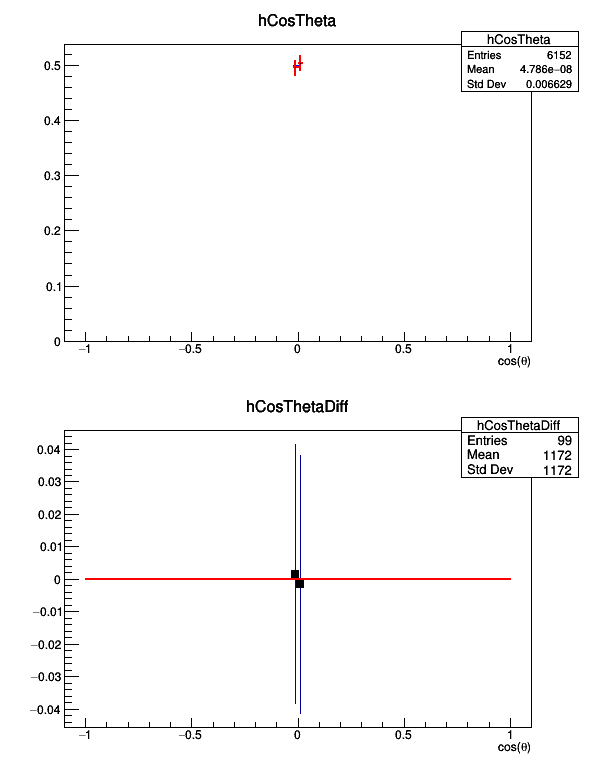
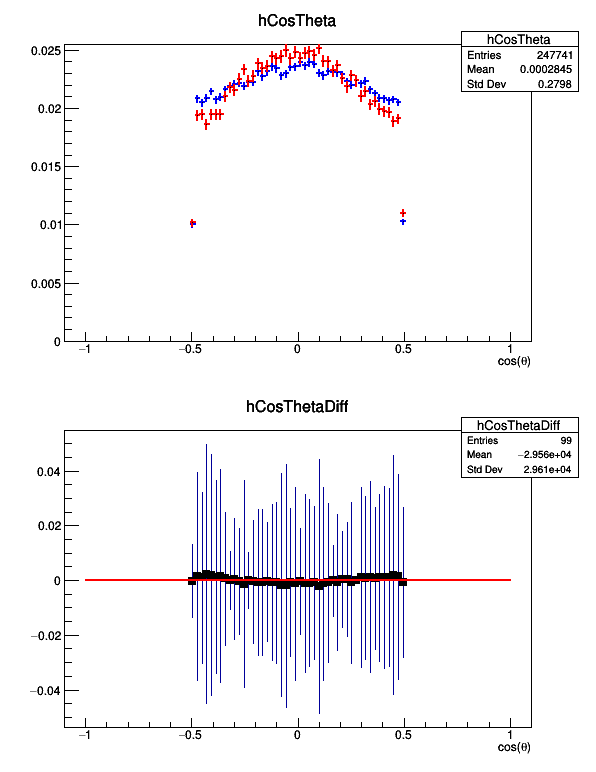
Position correction added. Theta slightly better, phi without changes.

diff --git a/MyHits.C b/MyHits.C
@@ -33,21 +33,33 @@ MyHits::~MyHits()
     delete hTheta;
 }
 
-void MyHits::CalculateNewHitPoints(TLorentzVector &h, const TLorentzVector &source)
+TLorentzVector MyHits::CalculateNewHitPoints(TLorentzVector h, const TLorentzVector source)
 {
-    TLorentzVector r = h-source;
-    double x = r.X();
-    double y = r.Y();
-    double z = r.Z();
-    double s = R/(r.X()*r.X()+r.Y()+r.Y());
-    h = r*s + source;
-    if(TMath::Abs(h.Z()) > L/2.0);
+    TLorentzVector r(h.X()-source.X(), h.Y()-source.Y(), h.Z()-source.Z(), 0.0);
+    double rx = r.X();
+    double ry = r.Y();
+    double rz = r.Z();
+    double xs = source.X();
+    double ys = source.Y();
+    double zs = source.Z();
+    double Rs2 = (xs*xs+ys*ys);
+    double delta = 4*((xs*rx+ys*ry)*(xs*rx+ys*ry) -  (rx*rx+ry*ry)*(Rs2-R*R));
+    double s = (-2*((xs*rx+ys*ry))+TMath::Sqrt(delta))/2.0/(rx*rx+ry*ry);
+//    cout<<"Rs="<<TMath::Sqrt(Rs2)<<" R="<<R<<" ";
+//    cout<<"delta="<<delta<<" s="<<s<<" ";
+    TLorentzVector hh = r*s + source;
+//    cout<<TMath::Abs(hh.Mag())<<" ";
+    if(TMath::Abs(hh.Z()) > L/2.0)
     {
-        h.SetX(0);
-        h.SetY(0);
-        h.SetZ(0);
-        h.SetT(0);
+//        cout<<"W IFIE! ";
+        hh.SetX(0);
+        hh.SetY(0);
+        hh.SetZ(0);
+        hh.SetT(0);
     }
+    else
+        ;//cout<<"Poza ifem ";
+    return hh;
 }
 
 void MyHits::Loop() {
@@ -203,7 +215,7 @@ void MyHits::Loop() {
 
       if (fabs(last_time-time)<TIME_WINDOW)
       {
-          if (hit_is_proper)
+          if (hit_is_proper)// and h.nCrystalCompton==1)
           {
              //wypelnianie tablicy hits kandydatami na koincydencje
               hits.push_back(h);
@@ -211,10 +223,10 @@ void MyHits::Loop() {
               TLorentzVector source(h.sourcePosX, h.sourcePosY, h.sourcePosZ, 0.0);
               TLorentzVector v1 = v10-source;
 
-//              CalculateNewHitPoints(v10, source);
+              v10 = CalculateNewHitPoints(v10, source);
               double cc = 0;
-              double dd = 5;
-              if((v10.Z()>-dd && v10.Z()<-cc) || (v10.Z()>cc && v10.Z()<dd))
+              double dd = 250;
+              if((v10.Z()>-dd && v10.Z()<-cc) || (v10.Z()>cc && v10.Z()<dd) && v10.Mag() != 0)
 //              if(v10.Mag() != 0)
               {
                   hPhi->Fill(v1.Phi()); //wzgledem zrodla
@@ -233,17 +245,17 @@ void MyHits::Loop() {
           ea.analyze_event(hits, h12, hPhi, hCosTheta, hPos, hTheta, hEdep);
         }
         hits.clear();
-        if (hit_is_proper)
+        if (hit_is_proper)// and h.nCrystalCompton==1)
         {
             //dodaj pierwsza gamme z nowego eventu do hits
             hits.push_back(h);
             TLorentzVector v10(h.posX, h.posY, h.posZ, 0.0);
             TLorentzVector source(h.sourcePosX, h.sourcePosY, h.sourcePosZ, 0.0);
             TLorentzVector v1 = v10-source;
-//            CalculateNewHitPoints(v10, source);
+            v10 = CalculateNewHitPoints(v10, source);
             double cc = 0;
-            double dd = 5;
-            if((v10.Z()>-dd && v10.Z()<-cc) || (v10.Z()>cc && v10.Z()<dd))
+            double dd = 250;
+            if((v10.Z()>-dd && v10.Z()<-cc) || (v10.Z()>cc && v10.Z()<dd) && v10.Mag() != 0)
 //            if(v10.Mag() != 0)
             {
                 hPhi->Fill(v1.Phi());

diff --git a/MyEventHits.C b/MyEventHits.C
@@ -81,7 +81,7 @@ void MyEventHits::Loop()
            TLorentzVector v10(fHitPoint_[0].X(), fHitPoint_[0].Y(), fHitPoint_[0].Z(), 0.0);
            TLorentzVector v20(fHitPoint_[1].X(), fHitPoint_[1].Y(), fHitPoint_[1].Z(), 0.0);
            double cc = 0;
-           double dd = 5;
+           double dd = 250;
 //           if((v10.Z()>-dd && v10.Z()<-cc) || (v20.Z()>-dd && v20.Z()<-cc) || (v10.Z()>cc && v10.Z()<dd) || (v20.Z()>cc && v20.Z()<dd))
 //           {
                if(fPassFlag_&& fEdep_[0]>COMPTON_E_TH_0 && fEdep_[1]>COMPTON_E_TH_0) hRoot12->Fill((v1).Angle((v2).Vect()));

diff --git a/MyHits.h b/MyHits.h
@@ -15,7 +15,7 @@ class MyHits : public Hits
         TH3F* hPos;
         TH1F* hTheta;
 
-        void CalculateNewHitPoints(TLorentzVector &v1, const TLorentzVector &source);
+        TLorentzVector CalculateNewHitPoints(TLorentzVector v1, const TLorentzVector source);
 
         MyHits();
         virtual ~MyHits();
